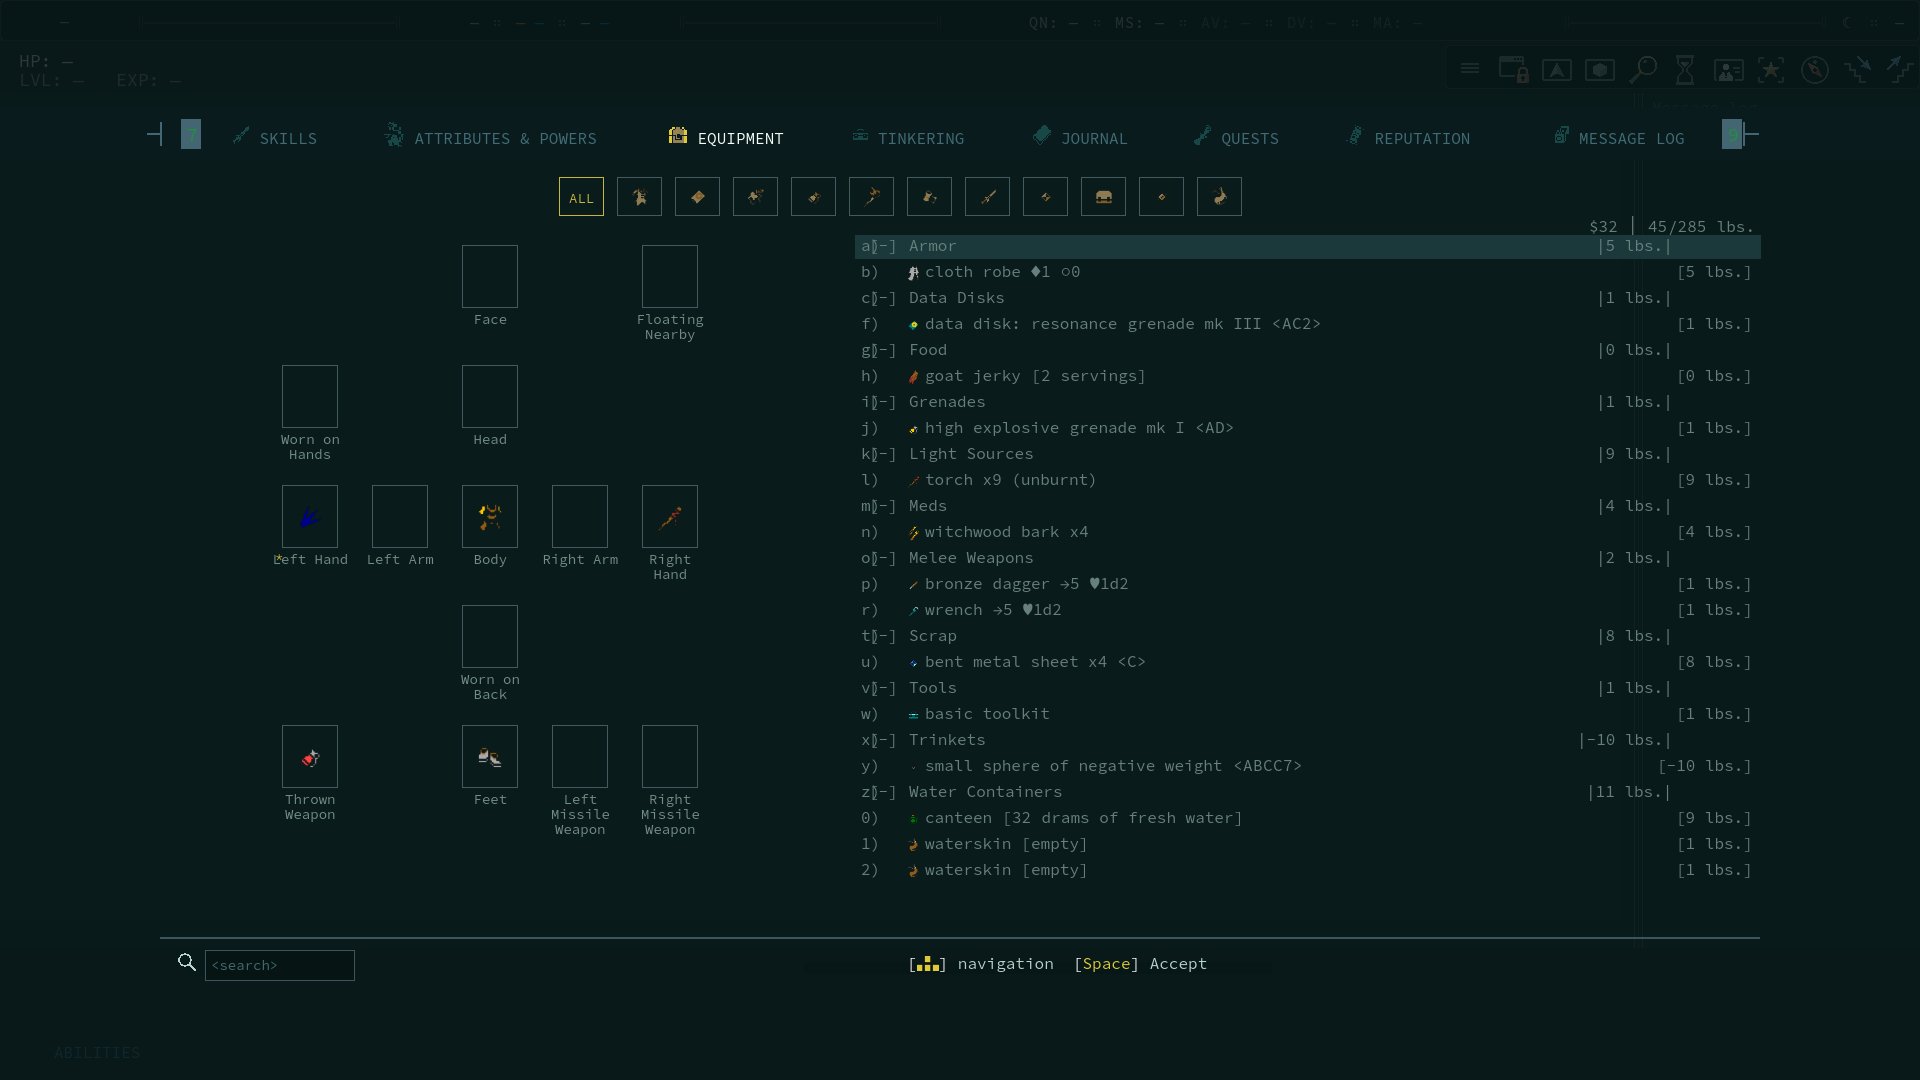
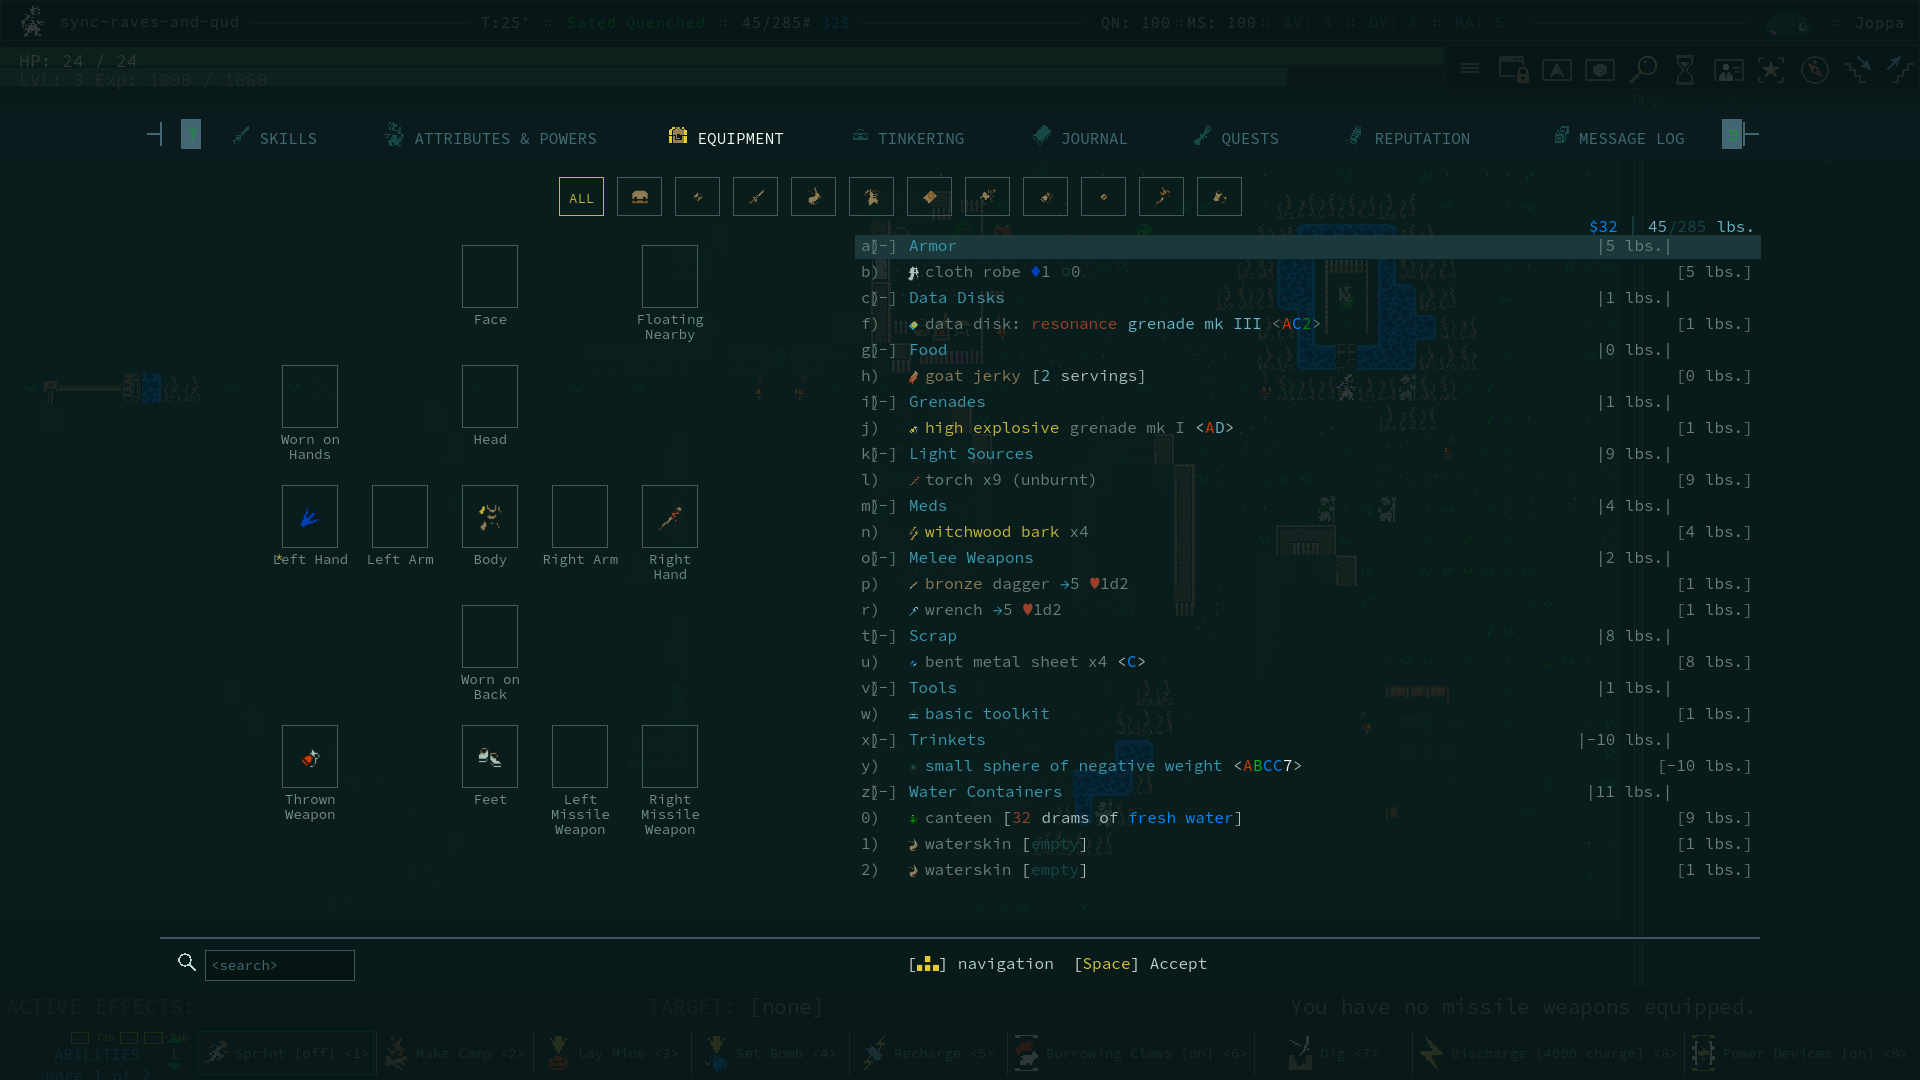
Filter strip follows Qud's order (full frame 5.24 -> 4.56)
InventoryLineData.sortString is the item's stripped lowercase DISPLAY
NAME, and Qud builds filterBarCategories by walking that
name-sorted item list and taking each category on first appearance —
so the strip order is "category of the alphabetically-first item",
nothing like the alphabetical category order the list itself uses.

The exporter now emits that order as `filterOrder` (Tools, Scrap,
Melee Weapons, Water Containers, Armor, Data Disks, Food, Grenades,
Trinkets, Light Sources, Meds — matching a hand-derivation from the
item names) and the strip draws from it, while the list keeps its
alphabetical categories.

Strip band 15.4 -> 14.2 and full frame 5.24 -> 4.56, the best this tab
has measured. Cells still don't match one-for-one; next hypotheses
recorded: Qud may include EQUIPPED items' categories in the filter
list (our scan walks the inventory only), and our per-category icon
choice may differ for a few entries.

diff --git a/mod/InventoryExporter.cs b/mod/InventoryExporter.cs
@@ -128,6 +128,31 @@ namespace RavesOfQud
             catch (Exception e) { System.Console.WriteLine("[raves] body scan: " + e.Message); }
             j.EndArray();
 
+            // FILTER-STRIP ORDER, Qud's way: its item list is sorted by sortString (the
+            // item's stripped lowercase DISPLAY NAME, globally — not by category), and
+            // filterBarCategories collects each category on FIRST APPEARANCE in that list.
+            // So the strip order is "category of the alphabetically-first item", which is
+            // nothing like the alphabetical category order the list itself uses.
+            try
+            {
+                var flat = new List<KeyValuePair<string, string>>();   // sortName -> category
+                foreach (var kv in cats)
+                    foreach (GameObject go in kv.Value)
+                    {
+                        string sn = "";
+                        try { sn = (go.DisplayNameOnlyStripped ?? "").ToLowerInvariant(); } catch { }
+                        flat.Add(new KeyValuePair<string, string>(sn, kv.Key));
+                    }
+                flat.Sort((a, b) => string.CompareOrdinal(a.Key, b.Key));
+                var seen = new List<string>();
+                foreach (var kv in flat)
+                    if (!seen.Contains(kv.Value)) seen.Add(kv.Value);
+                j.Name("filterOrder").BeginArray();
+                foreach (string n in seen) j.Value(n);
+                j.EndArray();
+            }
+            catch (Exception e) { System.Console.WriteLine("[raves] filter order: " + e.Message); }
+
             var names = new List<string>(cats.Keys);
             names.Sort(StringComparer.OrdinalIgnoreCase);
             j.Name("categories").BeginArray();

diff --git a/mod/Protocol.cs b/mod/Protocol.cs
@@ -18,7 +18,7 @@ namespace RavesOfQud
         /// no way to tell from the outside whether the running code included a
         /// given fix. Every snapshot now says. Bump this when changing the mod.
         /// </summary>
-        public const string Build = "2026-08-04 uipost-ab";
+        public const string Build = "2026-08-04 filterorder-ac";
 
         /// <summary>
         /// Monotonic WIRE version — bump whenever a change to the snapshot format makes a newer client
